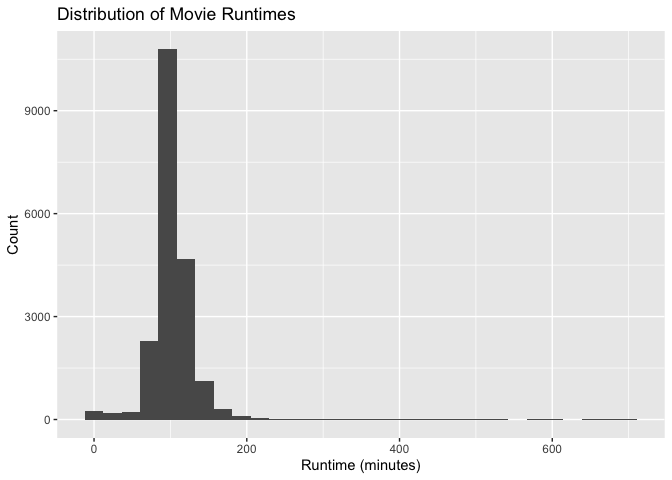
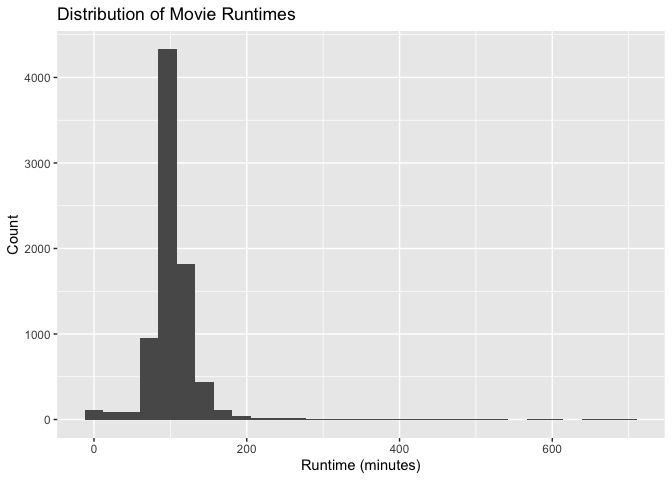
movie_df with separated genres were made into its own dataset (genre_df)

diff --git a/Data-Cleaning.md b/Data-Cleaning.md
@@ -23,16 +23,19 @@ Improting the Data, filter only English-language films
 movie_df = read.csv("data/letterbox_movie_classification_dataset.csv") |>
   janitor::clean_names() |>
   filter(original_language == "English") |>
-  select(film_title, director, average_rating, genres, runtime, original_language, description, studios, watches, list_appearances, likes, fans, lowest, medium, highest, total_ratings) |> 
-  mutate(genres = str_remove_all(genres, "\\[|\\]|'")) |>
-  separate_rows(genres, sep = ",\\s*") 
+  select(film_title, director, average_rating, genres, runtime, original_language, description, studios, watches, list_appearances, likes, fans, lowest, medium, highest, total_ratings)
 ```
 
 EDA - genre count
 
 ``` r
+genre_df = movie_df |>
+  mutate(genres = map_chr(genres, ~ paste(.x, collapse = ","))) |> 
+  mutate(genres = str_remove_all(genres, "\\[|\\]|'")) |>
+  separate_rows(genres, sep = ",\\s*")
+
 genre_count = 
-  movie_df |>
+  genre_df |>
   group_by(genres) |>
   summarise(film_count = n()) |>
   arrange (desc(film_count))
@@ -67,14 +70,12 @@ top_films =
 print(top_films)
 ```
 
-    ## # A tibble: 5 × 3
-    ##   film_title   director          watches
-    ##   <chr>        <chr>               <int>
-    ## 1 Barbie       Greta Gerwig      5195503
-    ## 2 Barbie       Greta Gerwig      5195503
-    ## 3 Fight Club   David Fincher     5059722
-    ## 4 Interstellar Christopher Nolan 5044987
-    ## 5 Interstellar Christopher Nolan 5044987
+    ##        film_title          director watches
+    ## 1          Barbie      Greta Gerwig 5195503
+    ## 2      Fight Club     David Fincher 5059722
+    ## 3    Interstellar Christopher Nolan 5044987
+    ## 4           Joker     Todd Phillips 4952400
+    ## 5 The Dark Knight Christopher Nolan 4488171
 
 EDA - top 5 films based on average rating (critical acclaim)
 
@@ -88,14 +89,18 @@ top_rated =
 print(top_rated)
 ```
 
-    ## # A tibble: 5 × 3
-    ##   film_title                                 director       average_rating
-    ##   <chr>                                      <chr>                   <dbl>
-    ## 1 Radiohead: In Rainbows - From the Basement David Barnard            4.71
-    ## 2 Radiohead: In Rainbows - From the Basement David Barnard            4.71
-    ## 3 Stop Making Sense                          Jonathan Demme           4.68
-    ## 4 Stop Making Sense                          Jonathan Demme           4.68
-    ## 5 12 Angry Men                               Sidney Lumet             4.63
+    ##                                   film_title                         director
+    ## 1 Radiohead: In Rainbows - From the Basement                    David Barnard
+    ## 2                          Stop Making Sense                   Jonathan Demme
+    ## 3                               12 Angry Men                     Sidney Lumet
+    ## 4                                 Twin Peaks                      David Lynch
+    ## 5                            Planet Earth II Elizabeth White, Justin Anderson
+    ##   average_rating
+    ## 1           4.71
+    ## 2           4.68
+    ## 3           4.63
+    ## 4           4.63
+    ## 5           4.63
 
 EDA - distribution of movie runtimes (please edit the aesthetics of it)
 
@@ -160,9 +165,9 @@ runtime_rate_df |>
     ## # A tibble: 3 × 2
     ##   runtime_category avg_rating
     ##   <chr>                 <dbl>
-    ## 1 Long                   3.44
-    ## 2 Medium                 3.16
-    ## 3 Short                  3.10
+    ## 1 Long                   3.48
+    ## 2 Medium                 3.18
+    ## 3 Short                  3.12
 
 The next two chunks of code is the same, only nature of run time
 variable is different
